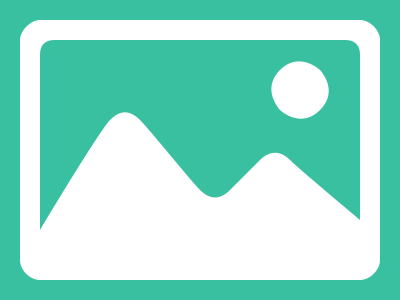
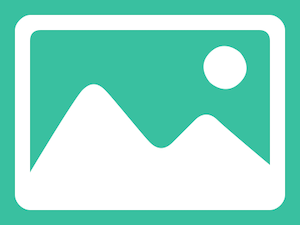
美化栏目详情页

diff --git a/src/resources/components/ResourcesList.vue b/src/resources/components/ResourcesList.vue
@@ -1,0 +1,66 @@
+<template>
+  <div class="resources-list my-3">
+    <div class="card mb-3">
+      <article v-for="resources in list" :key="resources.id" class="card mb-3">
+        <div class="row g-0">
+          <div class="col-md-4" v-if="resources.cover">
+            <img
+              :src="resources.cover"
+              alt="resources.title"
+              class="cover  img-fluid img-thumbnail my-4"
+            />
+          </div>
+          <div class="col-md-8 ">
+            <div class="card-body">
+              <h5 class="card-title">
+                <router-link :to="`/resources/${resources.id}`">
+                  {{ resources.title }}
+                </router-link>
+              </h5>
+              <p class="card-text">
+                <small>资源介绍：</small>
+                {{ resources.content }}
+              </p>
+            </div>
+            <div class="card-footer text-muted">
+              <small class="text-muted">{{ resources.createdAt }}</small>
+            </div>
+          </div>
+        </div>
+      </article>
+    </div>
+  </div>
+</template>
+
+<script lang="ts">
+import { computed, defineComponent, PropType } from 'vue';
+import { ResourcesProps } from '@/data/testData';
+
+export default defineComponent({
+  name: 'ResourcesList',
+  props: {
+    list: {
+      type: Array as PropType<ResourcesProps[]>,
+      required: true,
+    },
+  },
+  setup(props) {
+    const resourcesList = computed(() => {
+      return props.list.map((resources) => {
+        if (!resources.cover) {
+          resources.cover = require('@/assets/catagory.png');
+        }
+        return resources;
+      });
+    });
+    return { resourcesList };
+  },
+});
+</script>
+
+<style scoped>
+.card .card-title,
+.card-text {
+  text-align: left;
+}
+</style>

diff --git a/src/app/components/BreadCrumbs.vue b/src/app/components/BreadCrumbs.vue
@@ -1,0 +1,55 @@
+<template>
+  <div class="breadcrumbs pt-3">
+    <div class="container">
+      <nav aria-label="breadcrumb">
+        <ol class="breadcrumb" v-if="category">
+          <li class="breadcrumb-item">
+            <router-link to="/">首页</router-link>
+          </li>
+          <li class="breadcrumb-item">
+            <router-link to="/categorys/">资源库</router-link>
+          </li>
+          <li class="breadcrumb-item active" aria-current="page">
+            {{ category.name }}
+          </li>
+        </ol>
+        <ol v-else class="breadcrumb">
+          <li class="breadcrumb-item">
+            <router-link to="/">首页</router-link>
+          </li>
+          <li class="breadcrumb-item active" aria-current="page">
+            资源库
+          </li>
+        </ol>
+      </nav>
+    </div>
+  </div>
+</template>
+
+<script lang="ts">
+import { defineComponent } from 'vue';
+import { useStore } from 'vuex';
+import { useRoute } from 'vue-router';
+import { GlobalDataOProps } from '@/app/app-store';
+
+export default defineComponent({
+  name: 'Breadcrumbs',
+
+  setup() {
+    const route = useRoute();
+    const store = useStore<GlobalDataOProps>();
+    const currnetId = +route.params.id;
+    const category = store.state.categorys.find((c) => c.id == currnetId);
+
+    return {
+      category,
+    };
+  },
+});
+</script>
+
+<style>
+.breadcrumbs {
+  background-color: #fff;
+}
+</style>

diff --git a/src/views/CategoryDetail.vue b/src/views/CategoryDetail.vue
@@ -1,15 +1,13 @@
 <template>
-  <div class="resources-detail-page w-75 mx-auto">
-    <div class="resources-info row border-bottom py-5 align-items-center">
-      <div class="col-3 text-center">
-        <img :src="category.cover" :alt="category.name" class="cover" />
-      </div>
-      <div class="col-9">
-        <h4>{{ category.name }}</h4>
+  <bread-crumbs></bread-crumbs>
+  <div class="category-detail-page">
+    <div class="container">
+      <div class="category-info  border-bottom py-5 align-items-center">
+        <h3>{{ category.name }}</h3>
         <p class="text-muted">{{ category.alias }}</p>
       </div>
+      <resources-list :list="list"></resources-list>
     </div>
-    <resources-list :list="list"></resources-list>
   </div>
 </template>
 <script lang="ts">
@@ -17,10 +15,12 @@ import { defineComponent } from 'vue';
 import { useStore } from 'vuex';
 import { useRoute } from 'vue-router';
 import { GlobalDataOProps } from '@/app/app-store';
-import ResourcesList from '@/components/ResourcesList.vue';
+import BreadCrumbs from '@/app/components/BreadCrumbs.vue';
+import ResourcesList from '@/resources/components/ResourcesList.vue';
 
 export default defineComponent({
   components: {
+    BreadCrumbs,
     ResourcesList,
   },
   setup() {
@@ -38,3 +38,9 @@ export default defineComponent({
   },
 });
 </script>
+
+<style>
+.category-info {
+  background: #ccc;
+}
+</style>

diff --git a/src/app/app-router.ts b/src/app/app-router.ts
@@ -2,7 +2,7 @@ import { createRouter, createWebHistory, RouteRecordRaw } from 'vue-router';
 import Home from '@/home/Home.vue';
 import UserLogin from '@/components/UserLogin.vue';
 import Categorys from '@/views/Categorys.vue';
-import ResourcesDetail from '@/views/ResourcesDetail.vue';
+import CategoryDetail from '@/views/CategoryDetail.vue';
 import CreateResources from '@/views/CreateResources.vue';
 import About from '@/views/About.vue';
 import Test from '@/views/Test.vue';
@@ -22,7 +22,7 @@ const routes: Array<RouteRecordRaw> = [
   {
     path: '/category/:id',
     name: 'CategoryDetail',
-    component: ResourcesDetail,
+    component: CategoryDetail,
   },
   {
     path: '/create',

diff --git a/src/views/Categorys.vue b/src/views/Categorys.vue
@@ -1,5 +1,6 @@
 <template>
-  <div class="res py-5">
+  <bread-crumbs></bread-crumbs>
+  <div class="category-list-page py-3">
     <CategoryList :list="list"></CategoryList>
   </div>
 </template>
@@ -10,11 +11,13 @@ import { useStore } from 'vuex';
 import { useRoute } from 'vue-router';
 import { GlobalDataOProps } from '@/app/app-store';
 import CategoryList from '@/app/components/CategoryList.vue';
+import BreadCrumbs from '@/app/components/BreadCrumbs.vue';
 
 export default defineComponent({
   name: 'Categorys',
   components: {
     CategoryList,
+    BreadCrumbs,
   },
   setup() {
     const route = useRoute();

diff --git a/src/app/App.vue b/src/app/App.vue
@@ -57,10 +57,7 @@ export default defineComponent({
   margin: 20px 0;
 }
 .cover {
-  border-radius: 45px;
-  border: 2px solid #8ac007;
-  padding: 20px;
-  width: 200px;
-  height: 150px;
+  border-radius: 40px;
+  padding: 10px;
 }
 </style>

diff --git a/src/home/Home.vue b/src/home/Home.vue
@@ -33,4 +33,3 @@ export default defineComponent({
   },
 });
 </script>
-<style lang="stylus" scoped></style>
